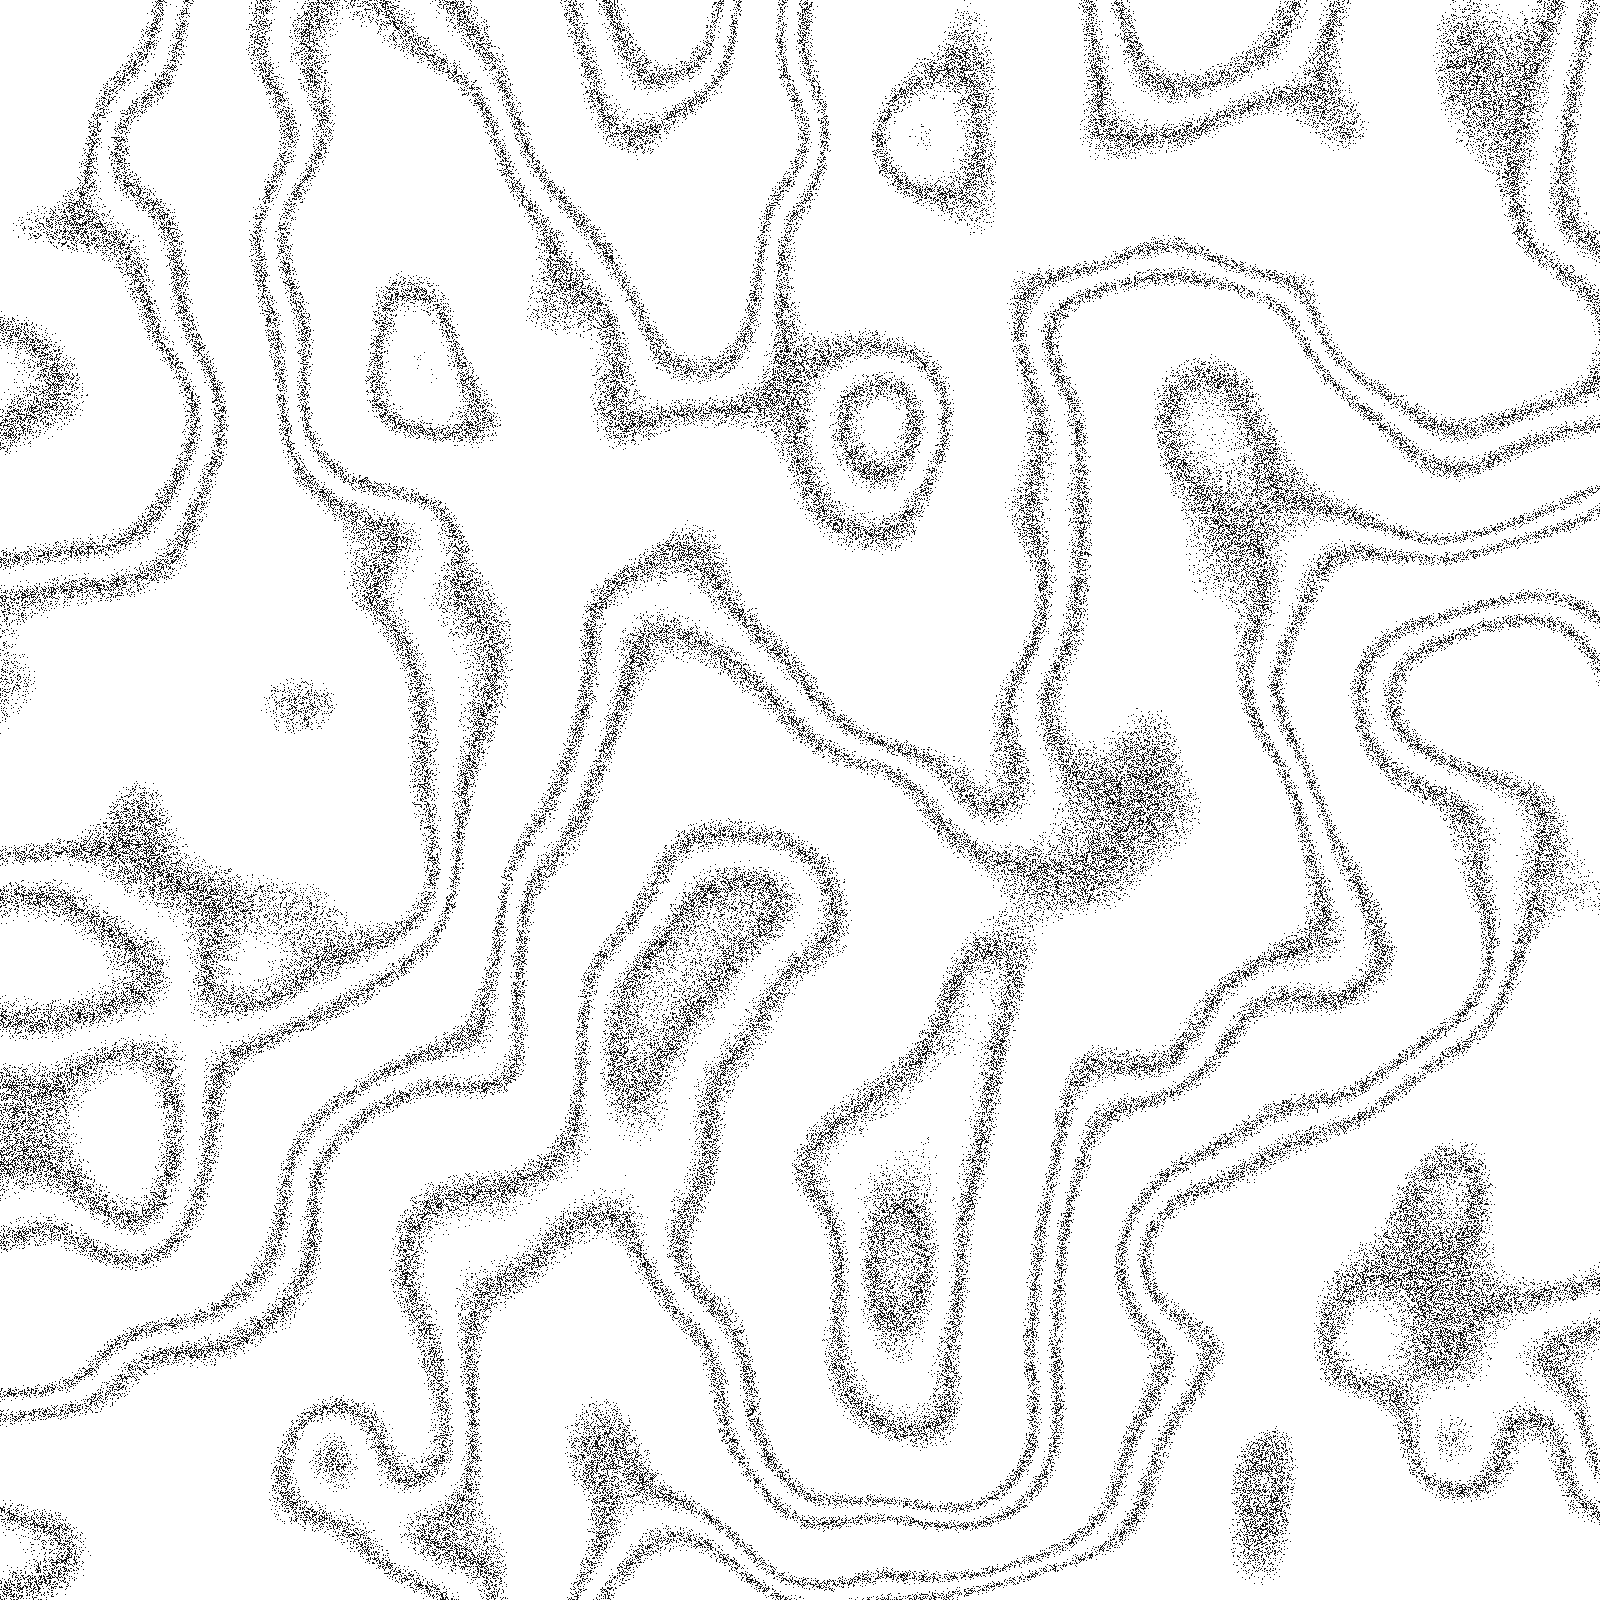
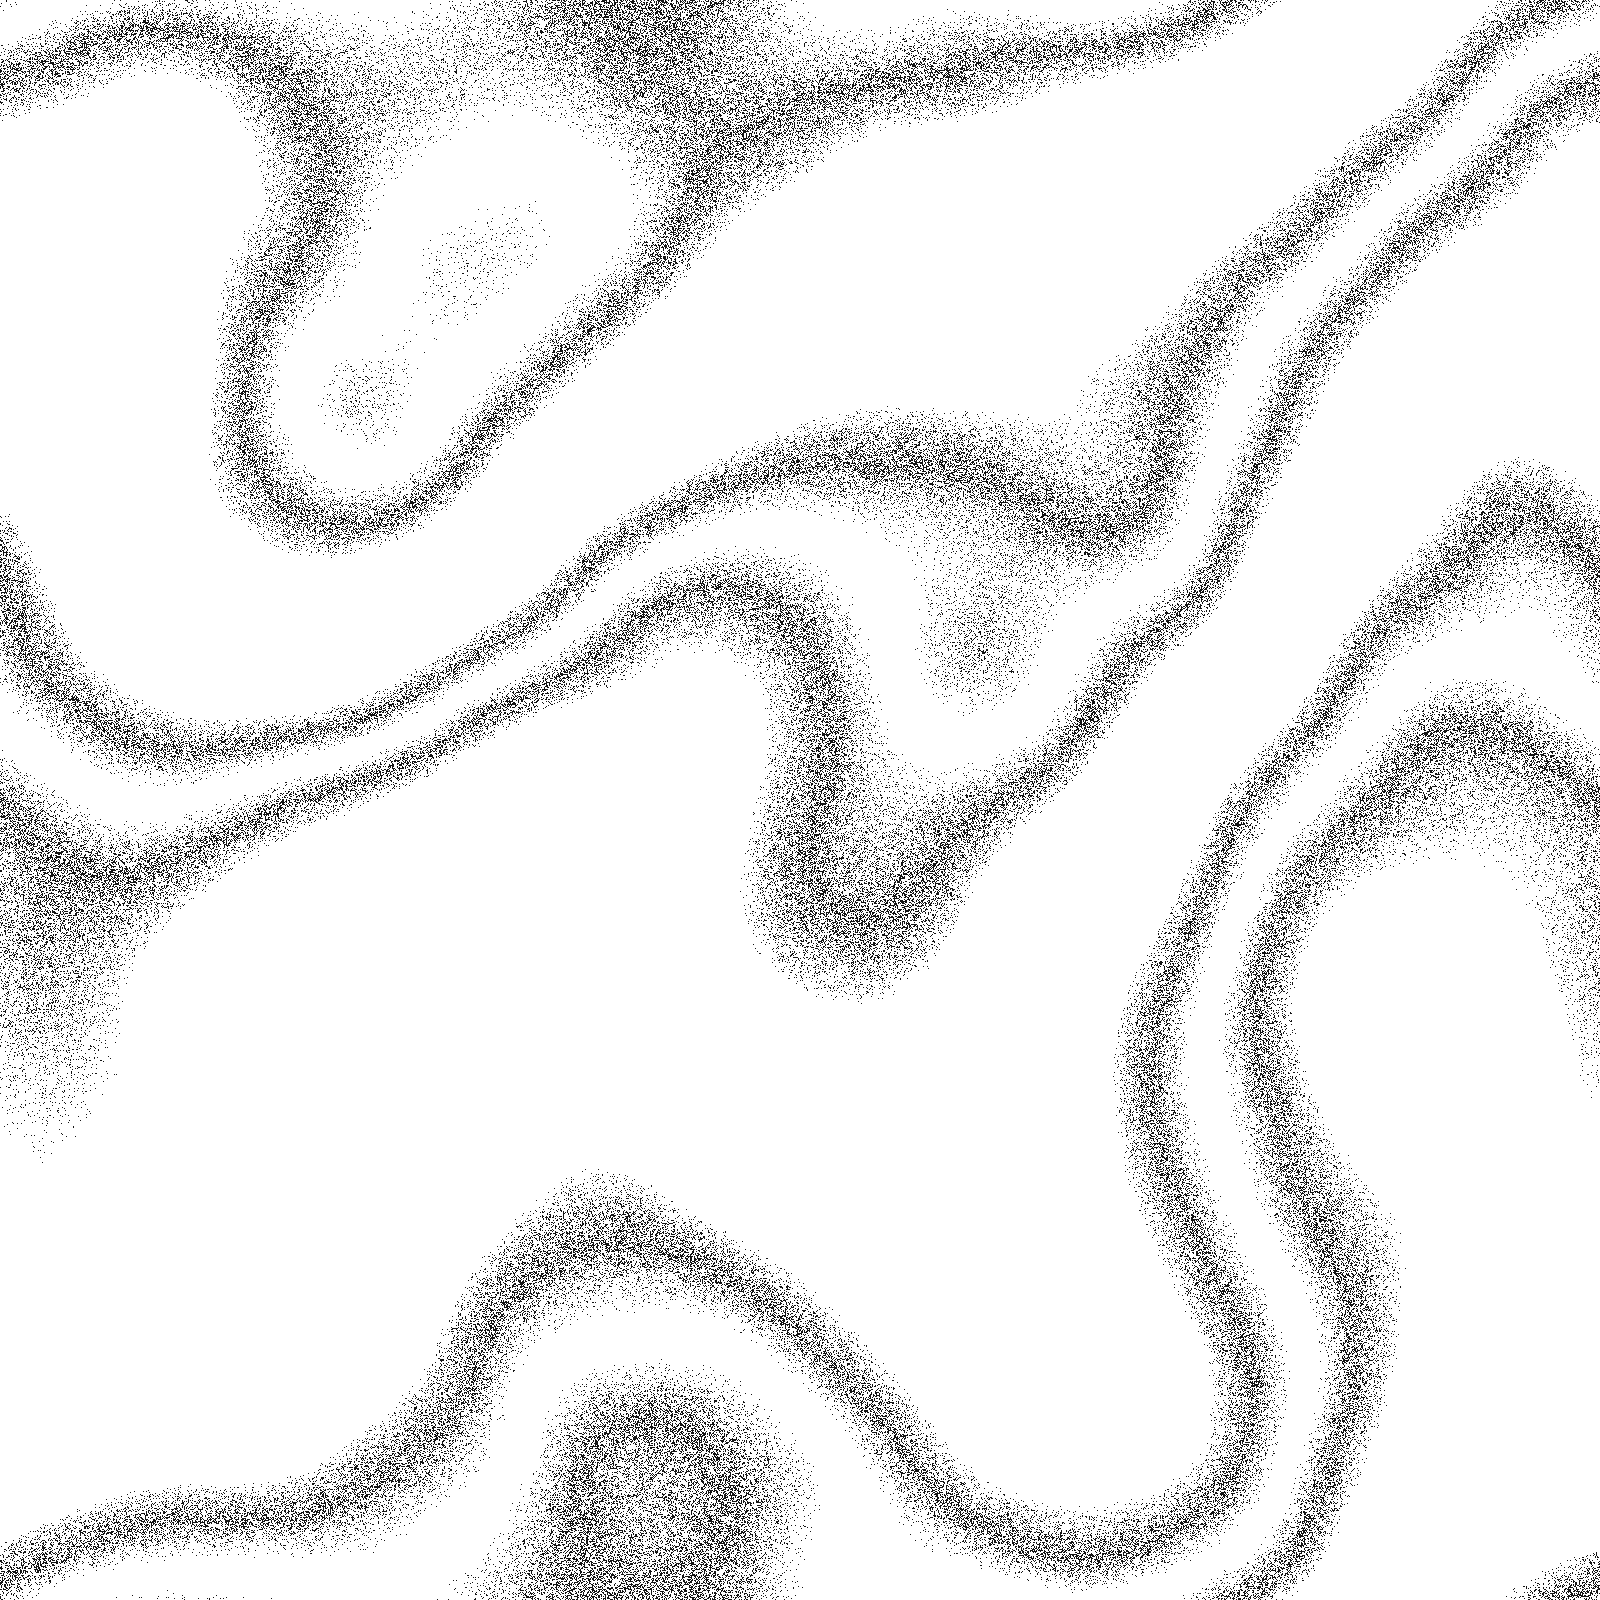
Fundo de mármore sem emendas (tile periódico)

diff --git a/css/site.css b/css/site.css
@@ -52,7 +52,7 @@ button{font:inherit;color:inherit;background:none;border:0;cursor:pointer}
 .gaveta .bt{margin-top:12px;width:100%;max-width:340px}
 
 /* mármore pontilhado (fundo dos cartazes dele) */
-.mar{position:absolute;inset:0;z-index:0;pointer-events:none;background:url(../img/marmore.webp) center/1500px auto repeat;opacity:.22}
+.mar{position:absolute;inset:0;z-index:0;pointer-events:none;background:url(../img/marmore.webp?v=2) center/1500px auto repeat;opacity:.22}
 .hero .mar{-webkit-mask-image:linear-gradient(#000 70%,transparent);mask-image:linear-gradient(#000 70%,transparent)}
 .mar-sec{opacity:.22;-webkit-mask-image:linear-gradient(transparent,#000 22%,#000 78%,transparent);mask-image:linear-gradient(transparent,#000 22%,#000 78%,transparent)}
 .mar-esc{filter:invert(1);opacity:.12;-webkit-mask-image:linear-gradient(transparent,#000 25%,#000 75%,transparent);mask-image:linear-gradient(transparent,#000 25%,#000 75%,transparent)}

diff --git a/index.html b/index.html
@@ -18,7 +18,7 @@
 <link rel="preload" href="fonts/hanken.woff2" as="font" type="font/woff2" crossorigin>
 <link rel="preload" href="img/hero/base.webp" as="image">
 <link rel="preload" href="img/coala/dorminhoco.webp" as="image">
-<link rel="stylesheet" href="css/site.css?v=1">
+<link rel="stylesheet" href="css/site.css?v=2">
 </head>
 <body>
 
